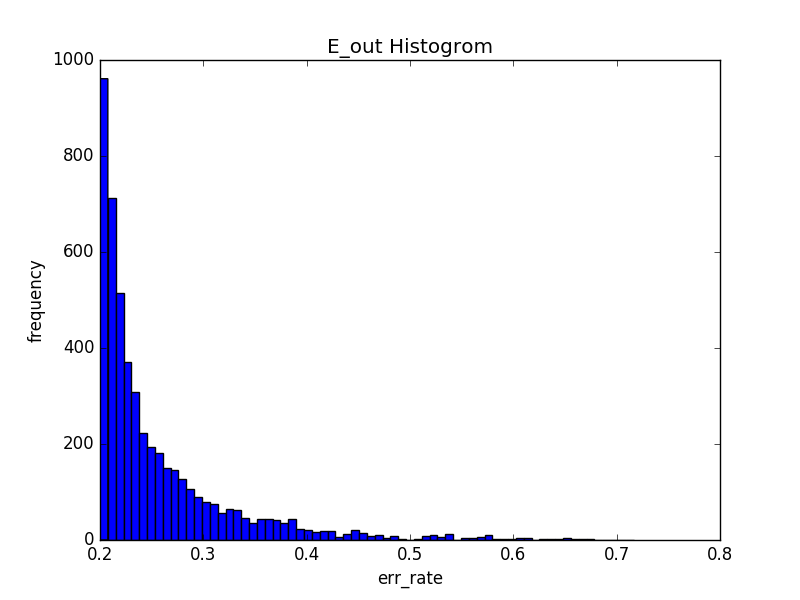
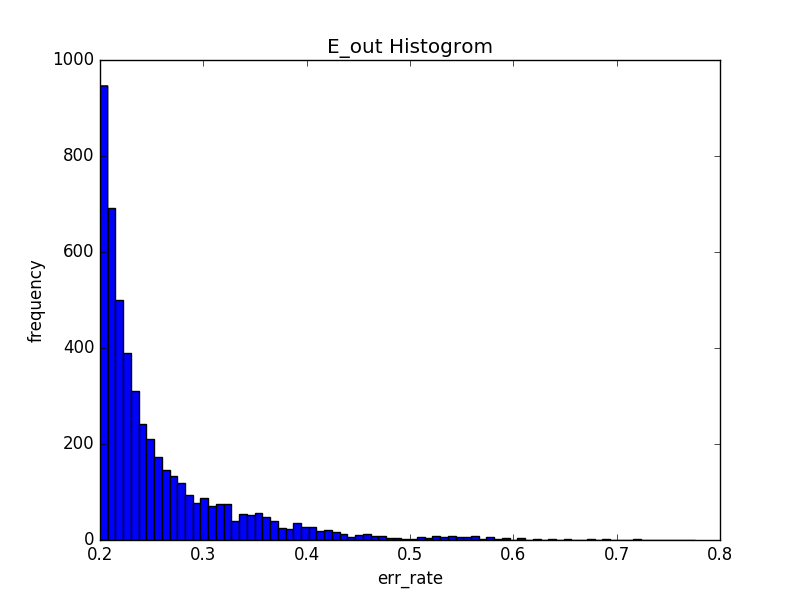
update how to get dichotomies from x

Changed region(s): [[0.125, 0.33, 0.625, 0.9], [0.125, 0.12, 0.1562, 0.15]]

diff --git a/hw2/hw2.py b/hw2/hw2.py
@@ -99,9 +99,9 @@ class DSA():
 
 		# make sure dataset splits line into N+1 areas
 		dichotomies = np.insert(x, 0, negBorder)
-		dichotomies = np.append(x, posBorder)
+		dichotomies = np.append(dichotomies, posBorder)
 		# let theta be the center of two values
-		dichotomies = (x + np.roll(x, -1)) / 2
+		dichotomies = (dichotomies + np.roll(dichotomies, -1)) / 2
 		dichotomies = np.delete(dichotomies, -1)
 		logging.debug("dichotomies are %s", (str(dichotomies)))
 
